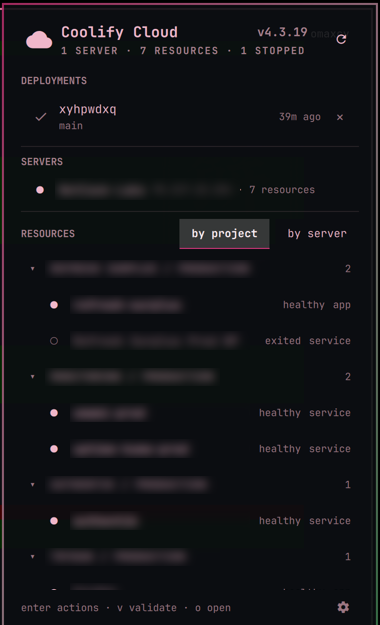
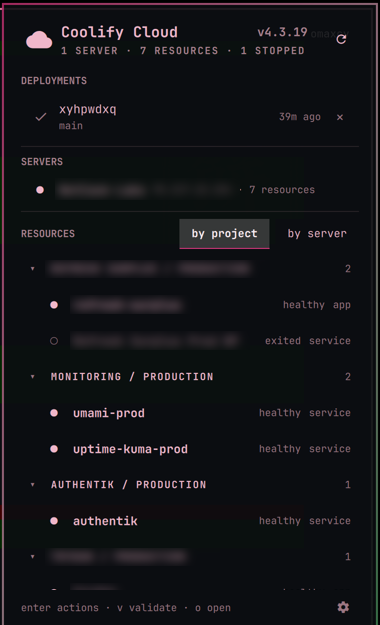
README: build-log screenshot with the project name blurred; panel shows the monitoring and authentik groups

diff --git a/README.md b/README.md
@@ -118,7 +118,10 @@ last 200 lines of its container; on a service it first asks which container.
 **History** lists an application's deployments ten at a time; Enter on one opens that
 build's log.
 
-<!-- PLACEHOLDER: screenshot of a failed build's log inside the panel (docs/images/build-log.png) -->
+<p align="center">
+  <img src="docs/images/build-log.png" width="380" alt="A failed build's log inside the panel, with the failing docker step and error lines">
+</p>
+
 <!-- PLACEHOLDER: screenshot of an application row with its strip open (docs/images/strip.png) -->
 <!-- PLACEHOLDER: screenshot of the filter field narrowing the list (docs/images/filter.png) -->
 
